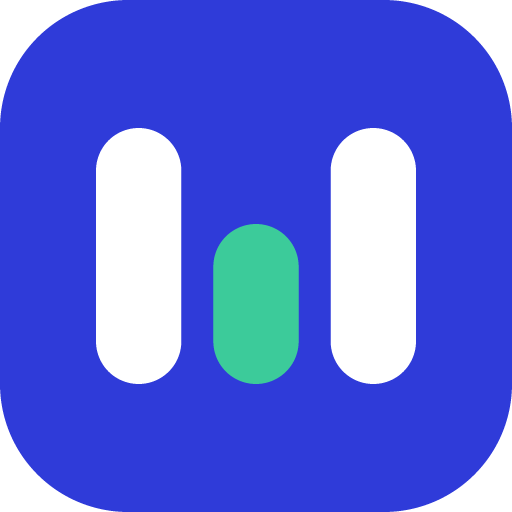
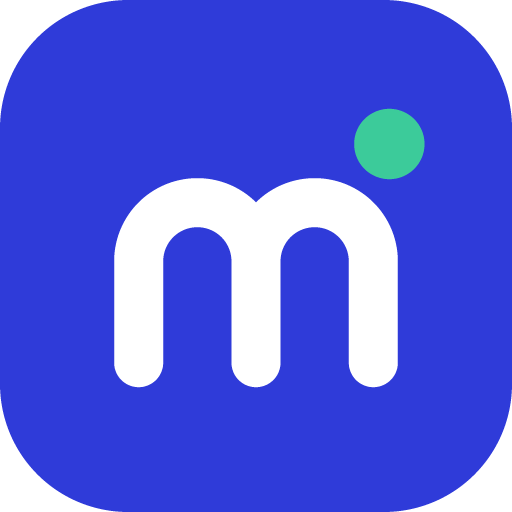
feat(brand): replace mark with arched «m» and mint dot
- shared/ui/Logo: MiloMark draws lowercase «m» (two arches, stroke 4.6) and mint dot
- generate-icons: rasterize the stroke by distance to its centerline; PNG/ICO regenerated
- favicon.svg with dark-scheme variant
- docs: decisions 22-25 (mark, pantry in stock, navigation, recipes), brand, roadmap, tasks, state

Changed region(s): [[0.1875, 0.1875, 0.8438, 0.7812], [0.7188, 0.75, 0.75, 0.7812], [0.25, 0.75, 0.2812, 0.7812]]

diff --git a/frontend/src/shared/ui/Logo/Logo.tsx b/frontend/src/shared/ui/Logo/Logo.tsx
@@ -10,8 +10,11 @@ interface MiloMarkProps {
   className?: string;
 }
 
+/** Строчная «м» из двух арок (обводка 4.6, скруглённые концы) в сетке 48×48. */
+const MARK_LETTER_PATH = 'M13 34V24.5a5.5 5.5 0 0 1 11 0V34M24 24.5a5.5 5.5 0 0 1 11 0V34';
+
 /**
- * Знак MILO: скруглённый квадрат (rx 25%) и три столбика БЖУ — крайние равные, средний ниже.
+ * Знак MILO: скруглённый квадрат (rx 25%), строчная «м» из двух арок и мятная точка — «искра».
  * Цвета берутся из токенов, поэтому знак сам переключается между светлой и тёмной версией.
  */
 export const MiloMark = ({ size = 32, title, className }: MiloMarkProps) => (
@@ -25,9 +28,8 @@ export const MiloMark = ({ size = 32, title, className }: MiloMarkProps) => (
     aria-label={title}
   >
     <rect className={styles.markBg} width="48" height="48" rx="12" />
-    <rect className={styles.markBar} x="9" y="12" width="8" height="24" rx="4" />
-    <rect className={styles.markAccent} x="20" y="21" width="8" height="15" rx="4" />
-    <rect className={styles.markBar} x="31" y="12" width="8" height="24" rx="4" />
+    <path className={styles.markLetter} d={MARK_LETTER_PATH} />
+    <circle className={styles.markAccent} cx="36.5" cy="13.5" r="3.3" />
   </svg>
 );
 

diff --git a/frontend/src/shared/ui/Logo/Logo.test.tsx b/frontend/src/shared/ui/Logo/Logo.test.tsx
@@ -16,14 +16,17 @@ describe('MiloMark', () => {
     expect(screen.getByRole('img', { name: 'MILO' })).toBeInTheDocument();
   });
 
-  it('рисует фон и три столбика: крайние одной высоты, средний ниже', () => {
+  // Требование изменилось 2026-11-05 (решение №22): знак — «м» из двух арок и точка вместо трёх столбиков
+  it('рисует скруглённый фон, «м» из двух арок и точку', () => {
     const { container } = render(<MiloMark size={48} />);
-    const [bg, left, middle, right] = Array.from(container.querySelectorAll('rect'));
-    expect(bg).toHaveAttribute('rx', '12');
-    expect(left?.getAttribute('height')).toBe(right?.getAttribute('height'));
-    expect(Number(middle?.getAttribute('height'))).toBeLessThan(
-      Number(left?.getAttribute('height')),
-    );
+    const rects = container.querySelectorAll('rect');
+    expect(rects).toHaveLength(1);
+    expect(rects[0]).toHaveAttribute('rx', '12');
+
+    const letter = container.querySelector('path');
+    // две арки: две дуги одинакового радиуса, стоящие рядом
+    expect(letter?.getAttribute('d')?.match(/a5\.5 5\.5/g)).toHaveLength(2);
+    expect(container.querySelectorAll('circle')).toHaveLength(1);
     expect(container.querySelector('svg')).toHaveAttribute('width', '48');
   });
 });

diff --git a/frontend/src/shared/ui/Logo/Logo.module.css b/frontend/src/shared/ui/Logo/Logo.module.css
@@ -7,8 +7,13 @@
   fill: var(--color-primary);
 }
 
-.markBar {
-  fill: var(--color-on-primary);
+/* Толщина обводки — часть геометрии знака в сетке 48 (docs/brand.md), а не размер интерфейса */
+.markLetter {
+  fill: none;
+  stroke: var(--color-on-primary);
+  stroke-width: var(--mark-stroke-width);
+  stroke-linecap: round;
+  stroke-linejoin: round;
 }
 
 .markAccent {

diff --git a/frontend/src/app/styles/variables.css b/frontend/src/app/styles/variables.css
@@ -148,6 +148,7 @@
   --checkbox-size: 18px;
   --icon-size: 24px;
   --icon-size-sm: 18px;
+  --mark-stroke-width: 4.6; /* обводка «м» в знаке, единицы сетки 48 */
   --progress-thickness: 6px;
   --stat-min-width: 64px;
   --date-label-min-width: 96px;

diff --git a/docs/ROADMAP.md b/docs/ROADMAP.md
@@ -15,12 +15,14 @@
 
 ## Этап B. Кладовая, покупки, рецепты
 
-| Шаг | Ветка                | Содержание                                                                                                                                                                                                                                                                                     | Статус                                                                |
-| --- | -------------------- | ---------------------------------------------------------------------------------------------------------------------------------------------------------------------------------------------------------------------------------------------------------------------------------------------- | --------------------------------------------------------------------- |
-| 6   | `feat/product-units` | `shared/lib/units.ts` (г/мл/шт, `toGrams`; мл ≈ г — задокументированное допущение); продукт: `unit`, `pieceWeight`, `minStock`, persist v2 + `migrate`; «Продукты» → «Кладовая» (`/pantry`, редирект); форма продукта; `meal-entry`: `amount`/`unit`/`grams`, `source: {type:'product'         | 'recipe', id}`, persist v2 + `migrate`; тесты миграций                | Готово |
-| 7   | `feat/shopping-list` | `entities/shopping-item` (слияние по `productId`); `features/add-to-shopping-list` (бейджи «Закончился»/«Заканчивается»); `features/restock-from-shopping`; `widgets/shopping-list`; `pages/shopping`; навигация (4 вкладки + «Рецепты» в шаге 8), профиль — из шапки (`widgets/profile-link`) | Реализован 2026-11-05, ждёт коммита и merge (разрешение пользователя) |
-| 8   | `feat/recipes`       | `entities/recipe` (+ `checkAvailability`, `recipeNutrition`, интерфейс `RecipeSource`); `features/manage-recipe`; `widgets/recipe-list`; `pages/recipes`, `pages/recipe` (`/recipes/:id`); вкладка «Рецепты» в нижней навигации (5 вкладок)                                                    | Следующий после merge шага 7                                          |
-| 9   | `feat/cook-recipe`   | `planCooking` (чистая функция); `CookRecipeDialog` (порции, по каждому недостающему — «в покупки»/«без него», запись в дневник); кнопка «Добавить недостающее в покупки»; подсказки ниже `minStock` без автодобавления                                                                         | Ожидает                                                               |
+| Шаг | Ветка                  | Содержание                                                                                                                                                                                                                                                                                                                                                                                         | Статус                                                 |
+| --- | ---------------------- | -------------------------------------------------------------------------------------------------------------------------------------------------------------------------------------------------------------------------------------------------------------------------------------------------------------------------------------------------------------------------------------------------- | ------------------------------------------------------ |
+| 6   | `feat/product-units`   | `shared/lib/units.ts` (г/мл/шт, `toGrams`; мл ≈ г — задокументированное допущение); продукт: `unit`, `pieceWeight`, `minStock`, persist v2 + `migrate`; «Продукты» → «Кладовая» (`/pantry`, редирект); форма продукта; `meal-entry`: `amount`/`unit`/`grams`, `source: {type:'product'                                                                                                             | 'recipe', id}`, persist v2 + `migrate`; тесты миграций | Готово |
+| 7   | `feat/shopping-list`   | `entities/shopping-item` (слияние по `productId`); `features/add-to-shopping-list` (бейджи «Закончился»/«Заканчивается»); `features/restock-from-shopping`; `widgets/shopping-list`; `pages/shopping`; навигация (4 вкладки + «Рецепты» в шаге 8), профиль — из шапки (`widgets/profile-link`)                                                                                                     | Готово (в `dev` 2026-11-05)                            |
+| 7a  | `feat/brand-mark-m`    | Знак «м» из двух арок с мятной точкой (решение №22): `shared/ui/Logo`, растеризатор `generate-icons.mjs` (обводка по расстоянию до осевой), все PNG/ICO, `favicon.svg`                                                                                                                                                                                                                             | Реализован 2026-11-05, ждёт коммита и merge            |
+| 7b  | `feat/pantry-in-stock` | Кладовая только `stock > 0`, без вкладок «Все/В наличии» (решение №23); поиск по всем продуктам → «В кладовую» (`features/stock-product`, диалог количества) / «В покупки»; ничего не найдено → «Создать продукт»                                                                                                                                                                                  | Следующий                                              |
+| 8   | `feat/recipes`         | `entities/recipe` (+ `checkAvailability`, `recipeNutrition`, интерфейс `RecipeSource`; ингредиенты — только продукты кладовой); `features/manage-recipe`; `widgets/recipe-list`; `pages/recipes` (вкладки «Рецепты» / «Приготовленные» / «История»), `pages/recipe` (`/recipes/:id`); навигация Сегодня · Рецепты · Кладовая · Покупки, `pages/diary` удаляется, `/diary` → `/` (решения №24, №25) | Ожидает                                                |
+| 9   | `feat/cook-recipe`     | `planCooking` (чистая функция); `CookRecipeDialog` (порции, по каждому недостающему — «в покупки»/«без него»); `entities/cooked-dish` (остаток порций); «Приготовленные»: «Съесть порцию» → запись на «Сегодня» (`source: recipe`), удаление записи возвращает порцию; «История» — готовка и съеденное по дням; скриншоты вариантов 2 и 3 вкладок → выбор пользователя                             | Ожидает                                                |
 
 Проверка этапа B: e2e-смоук в мобильном viewport в обеих темах (продукт в шт с `minStock` → рецепт → готовка при нехватке → покупки → перенос в кладовую → перезагрузка → офлайн).
 

diff --git a/docs/DECISIONS.md b/docs/DECISIONS.md
@@ -8,12 +8,12 @@
 
 1. **Название — MILO** (Meal Intelligence & Lifestyle Organizer). Существующее приложение подсчёта калорий развивается как MILO, а не создаётся заново. Главное слово — MILO, расшифровка не обязательна везде.
 2. **Концепция продукта**: шире подсчёта калорий — дневник, кладовая, рецепты, список покупок. Ключевая идея: пользователь видит, что есть дома; готовка по рецепту списывает продукты; закончившееся и недостающее можно добавить в покупки **или пропустить — по решению пользователя, без автодобавления**.
-3. **Айдентика**: палитра концепции C «Орбита» + знак концепции A «Пропорция» (три столбика БЖУ, силуэт «M»). Концепции: https://claude.ai/artifact/KPXspyqYRa6yFwPstU5i5M. Детали — `docs/brand.md`.
+3. **Айдентика**: палитра концепции C «Орбита» + знак концепции A «Пропорция» (три столбика БЖУ, силуэт «M»). _Знак заменён решением №22; палитра и шрифты действуют._ Концепции: https://claude.ai/artifact/KPXspyqYRa6yFwPstU5i5M. Детали — `docs/brand.md`.
 4. **Шрифты**: Onest (текст/UI) и Unbounded (логотип, крупные числа), подключение пакетами `@fontsource` (офлайн в PWA). Зависимость одобрена, ещё не установлена.
 5. **Единицы в кладовой**: г, мл, шт (для шт — вес одной штуки); минимальный остаток на продукт.
 6. **Рецепты**: сначала свои, локально; внешний API и общая база пользователей — позже, через общий интерфейс `RecipeSource`. Конкретный API не выбран.
 7. **Дизайн-система** (из утверждённого плана): двухслойные токены в `frontend/src/app/styles/variables.css` (примитивы `--milo-*` + семантические `--color-*`, `--font-*`, `--space-*`, `--radius-*`, `--shadow-*`), светлая и тёмная тема (`prefers-color-scheme`, готовность к `[data-theme]` без UI-переключателя), литералы в CSS-модулях запрещены. Цвета БЖУ: белки — светлый ультрамарин, жиры — янтарь `#FFB84D`, углеводы — лаванда `#9B8CFF`; мята `#3CCB9A` — только подсказки.
-8. **Навигация после шага «Список покупок»**: Сегодня · Дневник · Рецепты · Кладовая · Покупки; профиль — из шапки. Раздел «Продукты» переименовывается в «Кладовая» (`/pantry`, редирект со `/products`).
+8. **Навигация после шага «Список покупок»**: Сегодня · Дневник · Рецепты · Кладовая · Покупки; профиль — из шапки. _Состав вкладок заменён решением №24._ Раздел «Продукты» переименовывается в «Кладовая» (`/pantry`, редирект со `/products`).
 
 ## Архитектура и стек
 
@@ -33,3 +33,12 @@
 19. **Делегирование**: Claude Code — оркестратор; простые изолированные задачи — локальной модели Ollama через MCP (`qwen2.5-coder:7b`); архитектура, безопасность, CI/CD, сложная интеграция и приёмка — Claude Code. В отчётах указывать исполнителя каждой части.
 20. **AI-скилы**: проектные скилы в `.claude/skills/` (13 шт.), инвентаризация — `docs/skills-inventory.md`. `code-review` скопирован как `milo-code-review` (конфликт имён). Недостающие скилы созданы по официальной документации, а не скачаны.
 21. **Фичи продуктов**: `add-product` и `edit-product` из первоначального плана объединены в `features/manage-product` (общая форма; FSD запрещает импорт между фичами). `filterProducts` перенесён в `entities/product` для переиспользования.
+
+## Частичная переделка (2026-11-05)
+
+Утверждено пользователем вместе с планом переделки (этапы: `feat/brand-mark-m` → `feat/pantry-in-stock` → `feat/recipes` → `feat/cook-recipe`).
+
+22. **Знак — строчная «м» из двух арок с мятной точкой** (форма из концепции B «Рост») в цветах «Орбиты»: ультрамариновый скруглённый квадрат (rx 12 из 48), белая «м» обводкой 4.6, мятная точка; тёмная версия — фон `#6F7BFF`, «м» `#0B0C14`. Касается логотипа, иконок PWA и фавиконов. Заменяет знак из решения №3.
+23. **Кладовая показывает только то, что в наличии** (`stock > 0`); вкладок «Все / В наличии» нет. Поиск ищет по всем известным продуктам; из результатов продукт можно добавить в покупки или сразу в кладовую. Позже — внешний API продуктов и добавление по штрихкоду (не выбран, отдельное решение).
+24. **Навигация: Сегодня · Рецепты · Кладовая · Покупки**, профиль — кнопкой в шапке. Раздел «Дневник» убирается; записи о съеденном остаются на «Сегодня», `/diary` перенаправляется на `/`. Заменяет решение №8.
+25. **Раздел «Рецепты»** — вкладки «Рецепты» (все), «Приготовленные» (готовые блюда с остатком порций: сварил 6, съел 2 → осталось 4; порцию можно записать в «Сегодня») и «История» (журнал готовки и съеденного). Делаются варианты с 2 и 3 вкладками, окончательный выбор — по скриншотам. Ингредиенты — только продукты кладовой, количество в единице продукта.

diff --git a/docs/brand.md b/docs/brand.md
@@ -8,16 +8,21 @@
 
 Современный, минималистичный, дружелюбный, умный, премиальный, надёжный, технологичный. Продукт шире подсчёта калорий: питание, кладовая, рецепты, покупки, образ жизни. Не позиционируется как приложение для похудения.
 
-Утверждённое направление: палитра концепции «Орбита» + знак концепции «Пропорция» (сравнение концепций: https://claude.ai/artifact/KPXspyqYRa6yFwPstU5i5M).
+Утверждённое направление: палитра и шрифты концепции «Орбита» + знак «м» из концепции «Рост» (с 2026-11-05, решение №22; до этого — три столбика концепции «Пропорция»). Сравнение концепций: https://claude.ai/artifact/KPXspyqYRa6yFwPstU5i5M.
 
 ## Знак
 
-Скруглённый квадрат (радиус 12 при размере 48, то есть 25%), внутри три вертикальных скруглённых столбика одинаковой ширины. Крайние столбики высокие и равные, средний ниже. Смысл: соотношение белков, жиров и углеводов, гистограмма, баланс; силуэт читается как буква «M». Узнаваем без текста, работает от 16 px.
+Скруглённый квадрат (радиус 12 при размере 48, то есть 25%), внутри строчная «м» из двух арок и мятная точка справа сверху. Смысл: первая буква MILO; арки — ритм, миска, холмы; точка — «искра», подсказка, на которую обращает внимание приложение. Узнаваем без текста, работает от 16 px.
 
-| Версия  | Фон                 | Крайние столбики | Средний столбик |
-| ------- | ------------------- | ---------------- | --------------- |
-| Светлая | ультрамарин #2F3BD9 | белый #FFFFFF    | мята #3CCB9A    |
-| Тёмная  | #6F7BFF             | #0B0C14          | мята #3CCB9A    |
+Геометрия в сетке 48×48:
+
+- «м» — путь `M13 34V24.5a5.5 5.5 0 0 1 11 0V34M24 24.5a5.5 5.5 0 0 1 11 0V34`, обводка 4.6, концы и стыки скруглённые, без заливки;
+- точка — круг `cx 36.5, cy 13.5, r 3.3`.
+
+| Версия  | Фон                 | «м»           | Точка        |
+| ------- | ------------------- | ------------- | ------------ |
+| Светлая | ультрамарин #2F3BD9 | белый #FFFFFF | мята #3CCB9A |
+| Тёмная  | #6F7BFF             | #0B0C14       | мята #3CCB9A |
 
 ## Логотип
 
@@ -67,6 +72,6 @@
 
 ## Реализация
 
-- Токены, шрифты, знак (`shared/ui/Logo`: `MiloMark`, `MiloLogo`) внедрены в ветке `feat/design-tokens`. Цвета знака берутся из `--color-primary` / `--color-on-primary` / `--color-accent`, поэтому светлая и тёмная версии переключаются автоматически.
+- Токены, шрифты, знак (`shared/ui/Logo`: `MiloMark`, `MiloLogo`) внедрены в ветке `feat/design-tokens`, знак «м» — в `feat/brand-mark-m`. Толщина обводки — токен `--mark-stroke-width`. Цвета знака берутся из `--color-primary` / `--color-on-primary` / `--color-accent`, поэтому светлая и тёмная версии переключаются автоматически.
 - Для контраста WCAG AA (≥ 4.5:1) семантические цвета состояний скорректированы относительно первоначальных оттенков: danger `#B42A29`, warning `#955A00`, success в светлой теме `#116B4D`; в тёмной теме `--color-primary-soft` = `#171B36`. Основная палитра бренда не менялась.
-- Иконки PWA и фавиконы генерирует `frontend/scripts/generate-icons.mjs` (`npm run icons -w frontend`, без зависимостей, сглаживание 4×4): `pwa-192/512`, `maskable-512` и `apple-touch-icon` (фон на весь квадрат, столбики в безопасной зоне, масштаб 0.8), `favicon-64.png`, `favicon.ico` (16/32/48). `favicon.svg` переключается на тёмную версию знака через `prefers-color-scheme`.
+- Иконки PWA и фавиконы генерирует `frontend/scripts/generate-icons.mjs` (`npm run icons -w frontend`, без зависимостей, сглаживание 4×4; обводка «м» растеризуется по расстоянию до осевой линии — отрезков и верхних полуокружностей): `pwa-192/512`, `maskable-512` и `apple-touch-icon` (фон на весь квадрат, «м» и точка в безопасной зоне, масштаб 0.8), `favicon-64.png`, `favicon.ico` (16/32/48). `favicon.svg` переключается на тёмную версию знака через `prefers-color-scheme`.

diff --git a/docs/TASKS.md b/docs/TASKS.md
@@ -8,15 +8,17 @@
 2. ~~Шаг 3 — `feat/design-tokens`~~ — влит в `dev` (2026-11-04). `Skeleton` создан, но пока нигде не подключён: загрузка данных синхронная (localStorage) — подключить при появлении асинхронной загрузки.
 3. ~~Шаг 4 — `feat/brand-assets`~~ — влит в `dev` (2026-11-04).
 4. ~~Шаг 6 — `feat/product-units`~~ — влит в `dev` (2026-11-04).
-5. **Шаг 7 — `feat/shopping-list`** — реализован 2026-11-05 в ветке `feat/shopping-list`, все проверки зелёные; **не закоммичен** — ждёт разрешения на коммит и merge в `dev`.
-6. **Шаг 8 — `feat/recipes`** — после merge шага 7, новая ветка от `dev`. Добавить вкладку «Рецепты» в `widgets/bottom-nav` (станет 5 вкладок, по решению №8).
+5. ~~Шаг 7 — `feat/shopping-list`~~ — влит в `dev` с разрешения пользователя (2026-11-05).
+6. **Частичная переделка** (утверждена 2026-11-05, решения №22–25; этапы — `ROADMAP.md`, шаги 7a, 7b, 8, 9):
+   - 7a `feat/brand-mark-m` — знак «м»: реализован, **ждёт разрешения на коммит и merge**;
+   - 7b `feat/pantry-in-stock` — следующий;
+   - 8 `feat/recipes`, 9 `feat/cook-recipe` — по порядку.
 7. **Дефект вёрстки (найден 2026-11-05, существовал до шага 7)**: `widgets/daily-summary` при ширине 360 px — число цели («2000 / цель») выходит за правый край карточки. Исправить отдельной веткой `fix/daily-summary-overflow`.
 
 ## На подтверждение (решения шага 7, принятые Claude Code в рамках архитектуры)
 
 Не внесены в `DECISIONS.md`, пока пользователь их не утвердит:
 
-- Вкладка «Рецепты» не добавлена в шаге 7 (страницы ещё нет — пустую вкладку не делал); появится в шаге 8. Отличие от формулировки ROADMAP («навигация из 5 вкладок» в шаге 7).
 - Профиль — круглая кнопка в верхнем ряду страницы справа (`widgets/profile-link`, через `PageLayout.eyebrow`); на «Сегодня» — напротив логотипа. Вариант «в ряду заголовка» давал переполнение на 360 px.
 - Позиция списка покупок всегда ссылается на продукт кладовой (свободных позиций без продукта нет) — иначе нечего переносить в остатки.
 - Подсказки «Заканчиваются» и бейджи — только для отслеживаемых продуктов (`minStock > 0`) ниже минимума. Закончившиеся продукты без минимума показывают «Нет в наличии» без подсказки.
